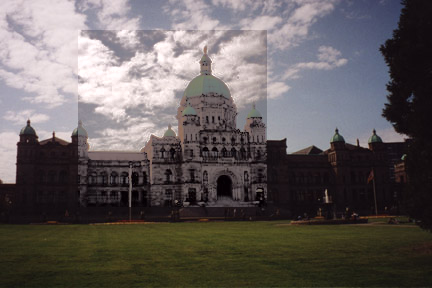
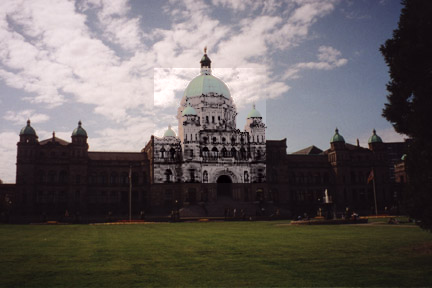
Polishing 1.3

Changed region(s): [[0.1806, 0.0938, 0.6319, 0.7188]]

diff --git a/comp-vision-hw1/HW1Description/comp_vision_hw1.py b/comp-vision-hw1/HW1Description/comp_vision_hw1.py
@@ -61,11 +61,11 @@ def myHEQ_ROI(img):
     cv2.setMouseCallback(imgName, mouseFunc)
     global SelectROI, refPt
     SelectROI = 1
+    print 'Press any key after selecting ROI in ROI_SELECT'
 
-    while SelectROI != 3:
-        cv2.waitKey(0)
+    cv2.waitKey(0)
+    cv2.destroyWindow(imgName)
 
-    print 'SelectROI == 3'
     # Part 2: Use “myHEQ_YCRCB()” to equalize the ROI region and get an enhanced patch
     newImgROI = myHEQ_YCRCB(ROI_ONLY)
 
